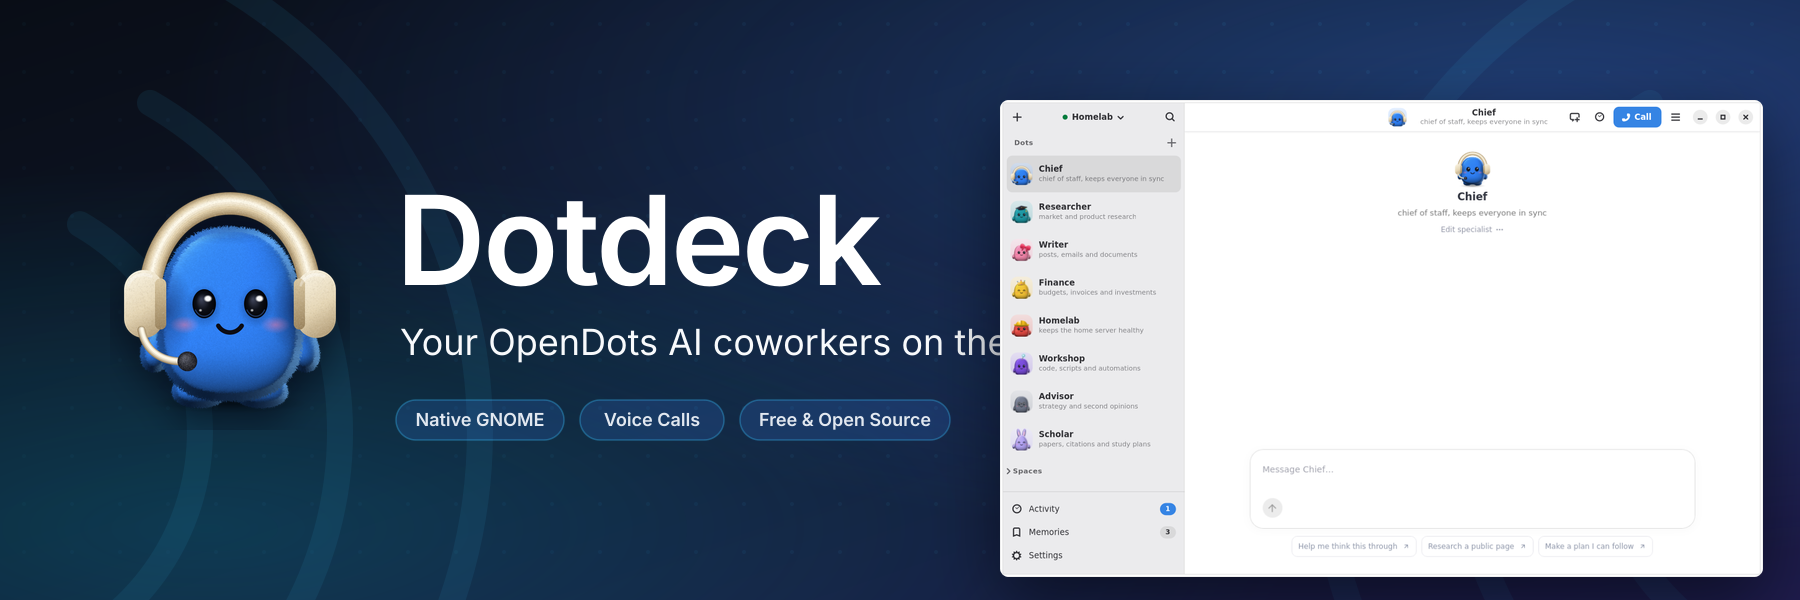
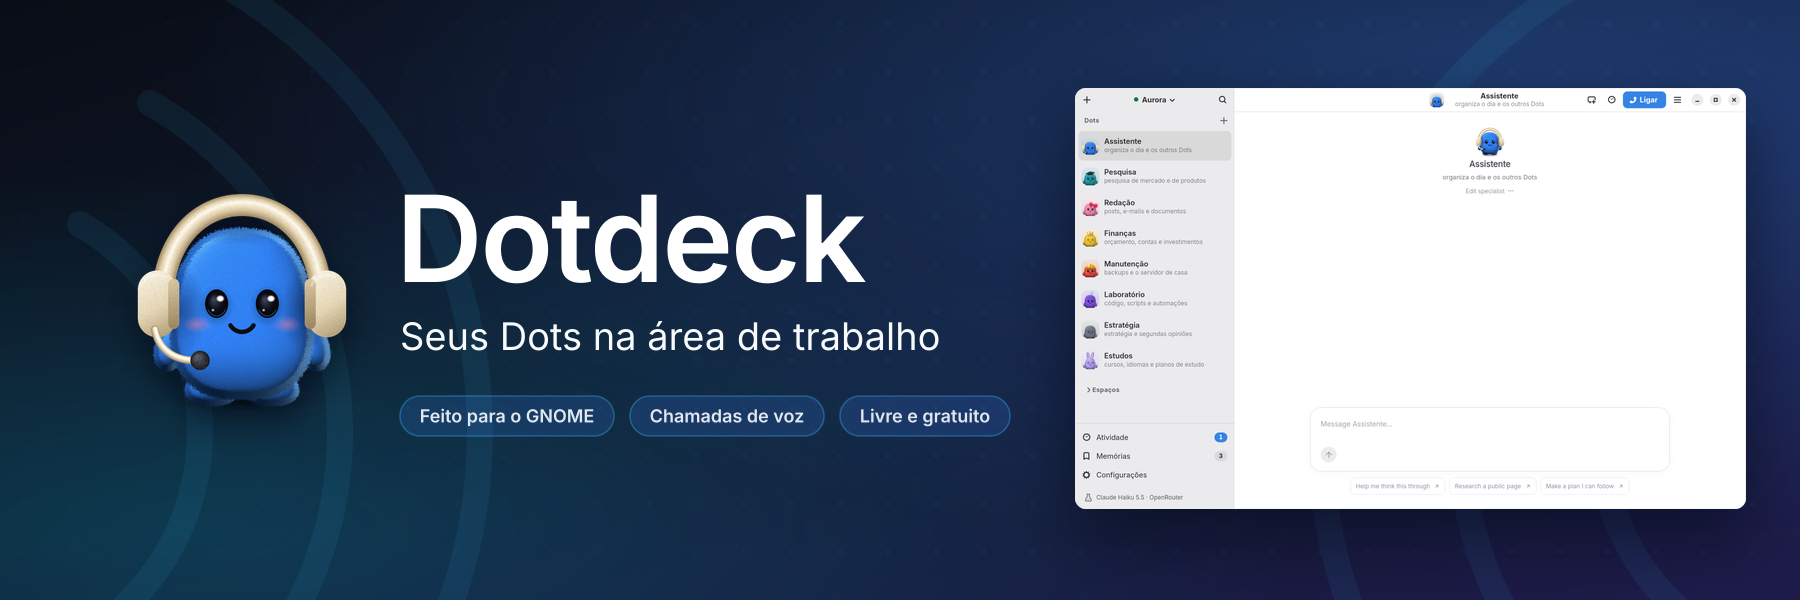
feat(loja): imagens da Snap Store em português, com slide de Modelos de IA
tools/store_assets.py usa as capturas pt_BR: banner novo (sem a janela por
cima do texto), cinco slides (Dots, pets, Modelos de IA, chamadas de voz no
escuro e configuração guiada) e o cartão de prévia do site
(data/store/social-card.png, 1200x630). Os slides antigos em inglês saem.

Changed region(s): [[0.2178, 0.12, 0.9956, 0.99], [0.0622, 0.3, 0.4978, 0.69], [0.7467, 0.69, 0.7778, 0.72]]

diff --git a/tools/store_assets.py b/tools/store_assets.py
@@ -1,19 +1,24 @@
 #!/usr/bin/env python3
-"""Build the Snap Store listing media from the app screenshots.
+"""Build the Snap Store listing media and the site's social card from the screenshots.
 
 The store page (https://snapcraft.io/dotdeck/listing) takes up to five
 screenshots and a 3:1 banner, separately from the AppStream metainfo. This
-frames data/screenshots/*.png on the brand gradient with short headlines:
+frames the Brazilian Portuguese screenshots (data/screenshots/pt_BR, from
+``make screenshots``) on the brand gradient with short headlines:
 
     python3 tools/store_assets.py             # writes data/store/*.png
 
-Needs Pillow and librsvg (gir1.2-rsvg-2.0); text uses the Inter font.
+It also draws data/store/social-card.png (1200×630), the picture that link
+previews show for the website. Needs Pillow and librsvg (gir1.2-rsvg-2.0);
+text uses the Inter font.
 """
 
 from __future__ import annotations
 
 import argparse
+import functools
 import math
+import subprocess
 from dataclasses import dataclass
 from pathlib import Path
 from xml.sax.saxutils import escape
@@ -22,14 +27,15 @@ import gi
 
 gi.require_version("Rsvg", "2.0")
 from gi.repository import Rsvg  # noqa: E402
-from PIL import Image, ImageDraw, ImageFilter  # noqa: E402
+from PIL import Image, ImageDraw, ImageFilter, ImageFont  # noqa: E402
 
 ROOT = Path(__file__).resolve().parent.parent
-SHOTS = ROOT / "data" / "screenshots"
+SHOTS = ROOT / "data" / "screenshots" / "pt_BR"
 ICON_PNG = ROOT / "data" / "icons" / "hicolor" / "512x512" / "apps" / "io.github.euvinicios.Dotdeck.png"
 
 SLIDE_SIZE = (1760, 1100)  # 16:10
 BANNER_SIZE = (1800, 600)  # 3:1, as the store asks for the featured banner
+CARD_SIZE = (1200, 630)    # Open Graph / Twitter large card
 MAX_BYTES = 2 * 1024 * 1024  # store limit per image (2 MB)
 RADIUS = 14  # GNOME window corners at 1×
 
@@ -40,7 +46,6 @@ class Window:
     x: int
     y: int
     scale: float = 1.0
-    width: int | None = None
 
 
 @dataclass(frozen=True)
@@ -48,25 +53,27 @@ class Slide:
     name: str
     title: str
     subtitle: str
-    windows: tuple[Window, ...]
+    windows: tuple[Window, ...]  # back to front
 
 
+# The main window is 1342×842 and the Settings window 982×682 (tools/screenshots.py).
 SLIDES = (
-    Slide("1-workspace", "Every Dot, one click away",
-          "A native sidebar with all your Dots: their pets, names and jobs, like a real team.",
-          (Window("workspace.png", 260, 230),)),
-    Slide("2-pets", "A pet for every Dot",
-          "Twelve plush pets. Pick one in the gallery, or let Dotdeck choose by the job.",
-          (Window("pets.png", 260, 230),)),
-    Slide("3-settings", "Settings that go deep",
-          "Search every option: Dots, voice and microphone, AI model, notifications, privacy.",
-          (Window("settings-voice.png", 380, 250),)),
-    Slide("4-dark-mode", "Made for GNOME, light and dark",
-          "A clean Libadwaita interface that follows your desktop, with calls one click away.",
-          (Window("workspace-dark.png", 260, 230),)),
-    Slide("5-setup", "Set up in seconds",
-          "Guided connection to this computer, your home network, Tailscale or the cloud.",
-          (Window("welcome.png", 260, 230),)),
+    Slide("1-dots", "Todos os seus Dots a um clique",
+          "Uma barra lateral nativa com o pet, o nome e a função de cada Dot.",
+          (Window("workspace.png", 276, 238, 0.9),)),
+    Slide("2-pets", "Um pet para cada Dot",
+          "Doze pets de pelúcia. Escolha na galeria ou deixe o Dotdeck escolher pela função.",
+          (Window("pets.png", 276, 238, 0.9),)),
+    Slide("3-modelos-de-ia", "Modelos de IA, com o custo à vista",
+          "Saiba qual modelo os seus Dots usam, quanto custa e teste com um clique.",
+          (Window("workspace.png", 150, 330, 0.7), Window("settings-model.png", 628, 290))),
+    Slide("4-chamadas", "Ligue para os seus Dots",
+          "Chamadas de voz com cancelamento de eco, no tema claro ou no escuro.",
+          (Window("workspace-dark.png", 150, 330, 0.7),
+           Window("settings-voice-dark.png", 628, 290))),
+    Slide("5-configuracao", "Pronto em poucos segundos",
+          "Conecte-se ao seu OpenDots: neste computador, na rede de casa ou na nuvem.",
+          (Window("welcome.png", 130, 280, 0.6), Window("connected.png", 825, 420, 0.6))),
 )
 
 
@@ -142,6 +149,39 @@ def text(x: float, y: float, value: str, size: int, *, weight: str = "Regular",
             f'text-anchor="{anchor}">{escape(value)}</text>')
 
 
+@functools.cache
+def _font(family: str, size: int):
+    """The font librsvg will use for ``family`` (asked to fontconfig), for measuring."""
+    try:
+        path = subprocess.run(["fc-match", "-f", "%{file}", family], check=True,
+                              capture_output=True, text=True).stdout
+        return ImageFont.truetype(path, size)
+    except (OSError, subprocess.CalledProcessError):
+        return None
+
+
+def text_width(value: str, size: int, weight: str = "Regular") -> float:
+    font = _font("Inter SemiBold" if weight == "SemiBold" else "Inter", size)
+    return font.getlength(value) if font else len(value) * size * 0.56
+
+
+def pills(x: float, y: float, labels: tuple[str, ...], size: int = 18,
+          gap: int = 16) -> str:
+    """Rounded tags on one line, starting at ``x`` (each sized to its label)."""
+    parts = []
+    height = round(size * 2.2)
+    for label in labels:
+        width = round(text_width(label, size, "SemiBold") + size * 2.2)
+        parts.append(
+            f'<rect x="{x}" y="{y}" width="{width}" height="{height}" rx="{height / 2}" '
+            'fill="#3b82f6" fill-opacity="0.18" stroke="#38bdf8" stroke-opacity="0.35" '
+            'stroke-width="1.5"/>'
+            + text(x + width / 2, y + height * 0.66, label, size, weight="SemiBold",
+                   fill="#e2e8f0"))
+        x += width + gap
+    return "".join(parts)
+
+
 def rounded(size: tuple[int, int], radius: float, outline: int = 0) -> Image.Image:
     """Antialiased rounded-rectangle mask (filled, or just the outline)."""
     k = 4
@@ -162,12 +202,10 @@ def layer(canvas: Image.Image, image: Image.Image, pos: tuple[int, int]) -> Imag
 
 def place(canvas: Image.Image, window: Window) -> Image.Image:
     shot = Image.open(SHOTS / window.file).convert("RGBA")
-    if window.width:
-        shot = shot.crop((0, 0, window.width, shot.height))
     if window.scale != 1:
         shot = shot.resize((round(shot.width * window.scale), round(shot.height * window.scale)),
                            Image.LANCZOS)
-    radius = RADIUS * window.scale
+    radius = RADIUS * max(window.scale, 0.75)
     mask = rounded(shot.size, radius)
 
     pad = 90
@@ -185,6 +223,21 @@ def place(canvas: Image.Image, window: Window) -> Image.Image:
     return layer(canvas, edge, (window.x, window.y))
 
 
+def place_icon(canvas: Image.Image, size: int, pos: tuple[int, int]) -> Image.Image:
+    """The plush icon with a soft shadow under it."""
+    if not ICON_PNG.exists():
+        return canvas
+    icon = Image.open(ICON_PNG).convert("RGBA").resize((size, size), Image.LANCZOS)
+    pad = size // 4
+    alpha = Image.new("L", (size + 2 * pad, size + 2 * pad), 0)
+    alpha.paste(icon.split()[3], (pad, pad))
+    alpha = alpha.filter(ImageFilter.GaussianBlur(size / 14)).point(lambda v: int(v * 0.7))
+    shadow = Image.new("RGBA", alpha.size, (2, 6, 18, 0))
+    shadow.putalpha(alpha)
+    canvas = layer(canvas, shadow, (pos[0] - pad, pos[1] - pad + size // 20))
+    return layer(canvas, icon, pos)
+
+
 def save(image: Image.Image, path: Path) -> None:
     image.convert("RGB").save(path, optimize=True)
     size = path.stat().st_size
@@ -195,8 +248,8 @@ def save(image: Image.Image, path: Path) -> None:
 
 def build_slide(slide: Slide, out: Path) -> None:
     cx = SLIDE_SIZE[0] / 2
-    header = (text(cx, 110, slide.title, 56, weight="SemiBold")
-              + text(cx, 168, slide.subtitle, 28, fill="#cbd5e1"))
+    header = (text(cx, 112, slide.title, 56, weight="SemiBold")
+              + text(cx, 170, slide.subtitle, 28, fill="#cbd5e1"))
     canvas = render_svg(backdrop(SLIDE_SIZE, header), SLIDE_SIZE)
     for window in slide.windows:
         canvas = place(canvas, window)
@@ -204,40 +257,34 @@ def build_slide(slide: Slide, out: Path) -> None:
 
 
 def build_banner(out: Path) -> None:
-    # 1800x600 banner
-    badge_bg = """<g>
-      <rect x="396" y="400" width="168" height="40" rx="20" fill="#3b82f6" fill-opacity="0.18"/>
-      <rect x="396" y="400" width="168" height="40" rx="20" fill="none" stroke="#38bdf8" stroke-opacity="0.35" stroke-width="1.5"/>
-      <rect x="580" y="400" width="144" height="40" rx="20" fill="#3b82f6" fill-opacity="0.18"/>
-      <rect x="580" y="400" width="144" height="40" rx="20" fill="none" stroke="#38bdf8" stroke-opacity="0.35" stroke-width="1.5"/>
-      <rect x="740" y="400" width="210" height="40" rx="20" fill="#3b82f6" fill-opacity="0.18"/>
-      <rect x="740" y="400" width="210" height="40" rx="20" fill="none" stroke="#38bdf8" stroke-opacity="0.35" stroke-width="1.5"/>
-    </g>"""
-
+    """1800×600: the icon, the name and the promise on the left, the app on the right."""
     content = (
-        text(396, 285, "Dotdeck", 124, weight="SemiBold", anchor="start")
-        + text(400, 355, "Your OpenDots AI coworkers on the desktop", 36, anchor="start", fill="#f8fafc")
-        + badge_bg
-        + text(480, 426, "Native GNOME", 18, weight="SemiBold", fill="#e2e8f0", anchor="middle")
-        + text(652, 426, "Voice Calls", 18, weight="SemiBold", fill="#e2e8f0", anchor="middle")
-        + text(845, 426, "Free & Open Source", 18, weight="SemiBold", fill="#e2e8f0", anchor="middle")
+        text(396, 282, "Dotdeck", 120, weight="SemiBold", anchor="start")
+        + text(400, 350, "Seus Dots na área de trabalho", 38, anchor="start", fill="#f8fafc")
+        + pills(400, 396, ("Feito para o GNOME", "Chamadas de voz", "Livre e gratuito"))
     )
     canvas = render_svg(backdrop(BANNER_SIZE, content), BANNER_SIZE)
-
-    # Paste the icon on the left
-    if ICON_PNG.exists():
-        icon_img = Image.open(ICON_PNG).convert("RGBA").resize((240, 240), Image.LANCZOS)
-        # Icon shadow
-        icon_shadow = Image.new("RGBA", (280, 280), (0, 0, 0, 0))
-        icon_mask = icon_img.split()[3].filter(ImageFilter.GaussianBlur(18)).point(lambda v: int(v * 0.7))
-        shadow_layer = Image.new("RGBA", (240, 240), (2, 6, 18, 0))
-        shadow_layer.putalpha(icon_mask)
-        canvas.paste(shadow_layer, (110, 190), shadow_layer)
-        canvas.paste(icon_img, (110, 180), icon_img)
-
-    # Place preview window on the right
-    canvas = place(canvas, Window("workspace.png", 1000, 100, scale=0.62))
+    canvas = place_icon(canvas, 236, (124, 182))
+    canvas = place(canvas, Window("workspace.png", 1075, 88, 0.5))
     save(canvas, out / "banner.png")
+
+
+def build_social_card(out: Path) -> None:
+    """1200×630 for link previews of the website (Open Graph and Twitter)."""
+    content = (
+        text(80, 312, "Dotdeck", 92, weight="SemiBold", anchor="start")
+        + text(84, 370, "Seus Dots na área de trabalho", 32, anchor="start", fill="#f8fafc")
+        + text(84, 414, "App nativo para Linux do OpenDots", 24, anchor="start",
+               fill="#cbd5e1")
+        + pills(84, 454, ("GNOME", "Chamadas de voz", "Código aberto"), size=17, gap=12)
+    )
+    canvas = render_svg(backdrop(CARD_SIZE, content), CARD_SIZE)
+    canvas = place_icon(canvas, 132, (80, 106))
+    canvas = place(canvas, Window("workspace.png", 650, 172, 0.56))
+    path = out / "social-card.png"
+    canvas.convert("RGB").save(path, optimize=True)
+    print(f"{path.relative_to(ROOT)}  {canvas.width}×{canvas.height}  "
+          f"{path.stat().st_size // 1024} KB")
 
 
 def build_icon(out: Path) -> None:
@@ -259,6 +306,7 @@ def main() -> None:
     for slide in SLIDES:
         build_slide(slide, args.out)
     build_banner(args.out)
+    build_social_card(args.out)
 
 
 if __name__ == "__main__":
